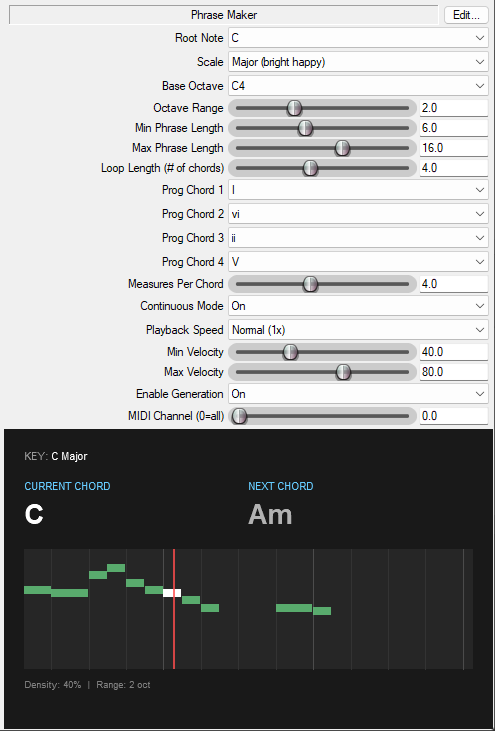
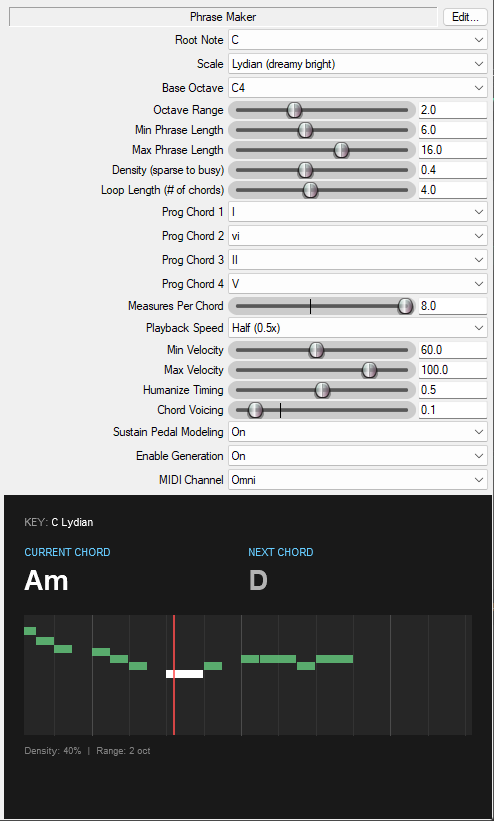
Documentation updates

diff --git a/docs/phrase-maker.md b/docs/phrase-maker.md
@@ -94,4 +94,4 @@ The plugin includes a custom UI that displays:
 
 ## Audio Demo
 
-Here's a short audio [clip](https://sauravplayspiano.com/audio/phrase-maker-lydian.mp3) that shows the plugin in action. There are a lot of active effects, but the piano track was generated using this plugin.
+Here's a short audio [clip](https://sauravplayspiano.com/audio/phrase-maker-humanized.mp3) that shows the plugin in action. There are a lot of active effects, but the piano track was generated using this plugin.
